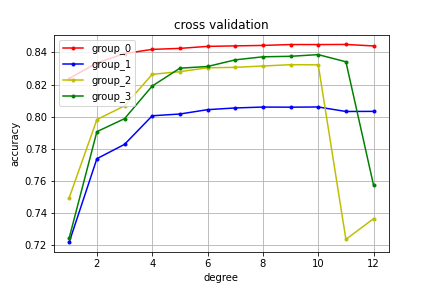
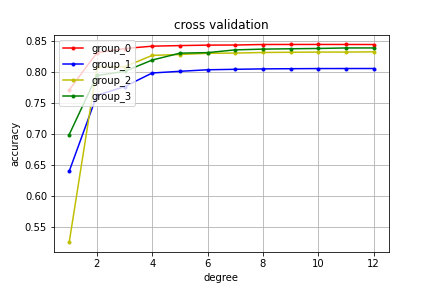
debug reg_logistic_regression

Changed region(s): [[0.0602, 0.125, 0.9028, 0.875], [0.0602, 0.125, 0.1204, 0.3125]]

diff --git a/project1/scripts/implementation.py b/project1/scripts/implementation.py
@@ -129,25 +129,25 @@ def ridge_regression(y, tx, lambda_):
 
 ## task 5) logistic regression
 
-def sigmoid_element(x):
-    "Numerically stable sigmoid function."
-    if x >= 0:
-        z = np.exp(-x)
-        return 1 / (1 + z)
-    else:
+# def sigmoid_element(x):
+#     "Numerically stable sigmoid function."
+#     if x >= 0:
+#         z = np.exp(-x)
+#         return 1 / (1 + z)
+#     else:
 
-        # if x is less than zero then z will be small, denom can't be
-        # zero because it's 1+z.
-        z = np.exp(x)
-        return z / (1 + z)
+#         # if x is less than zero then z will be small, denom can't be
+#         # zero because it's 1+z.
+#         z = np.exp(x)
+#         return z / (1 + z)
 
-def sigmoid(t):
-    """compute sigmoid function"""
-#     expo = np.exp(-t)
-#     result = 1.0 / (1.0 + expo)
+# def sigmoid(t):
+#     """compute sigmoid function"""
+# #     expo = np.exp(-t)
+# #     result = 1.0 / (1.0 + expo)
+# #     return result
+#     result = np.array([sigmoid_element(x) for x in t])
 #     return result
-    result = np.array([sigmoid_element(x) for x in t])
-    return result
 
 def compute_sigmoid_loss(tx, y, w):
     """compute loss given by sigmoid function"""
@@ -210,7 +210,6 @@ def calculate_loglikelihood_loss(y, tx, w):
 def penalized_logistic_regression(y, tx, w, lambda_):
     """return the loss and gradient."""
     num_samples = y.shape[0]
-    print(type(w.T))
     loss = calculate_loglikelihood_loss(y, tx, w) + lambda_ * np.squeeze(w.T.dot(w))
     gradient = calculate_gradient(y, tx, w) + 2 * lambda_ * w
     return loss, gradient
@@ -221,7 +220,6 @@ def learning_by_penalized_gradient(y, tx, w, gamma, lambda_):
     Return the loss and updated w.
     """
     loss, gradient = penalized_logistic_regression(y, tx, w, lambda_)
-    w -= gamma * gradient
     return loss, w
 
 def reg_logistic_regression(y, tx, lambda_, initial_w, max_iters, gamma):
@@ -233,9 +231,9 @@ def reg_logistic_regression(y, tx, lambda_, initial_w, max_iters, gamma):
     threshold = 0.1 # 1e-8
 
     # start the logistic regression
-    for iter in range(max_iters):
+    for i in range(max_iters):
         # get loss and update w.
-        w, loss = learning_by_penalized_gradient(y, tx, w, gamma, lambda_)
+        loss, w = learning_by_penalized_gradient(y, tx, w, gamma, lambda_)
         losses.append(loss)
 
         # converge criteria
